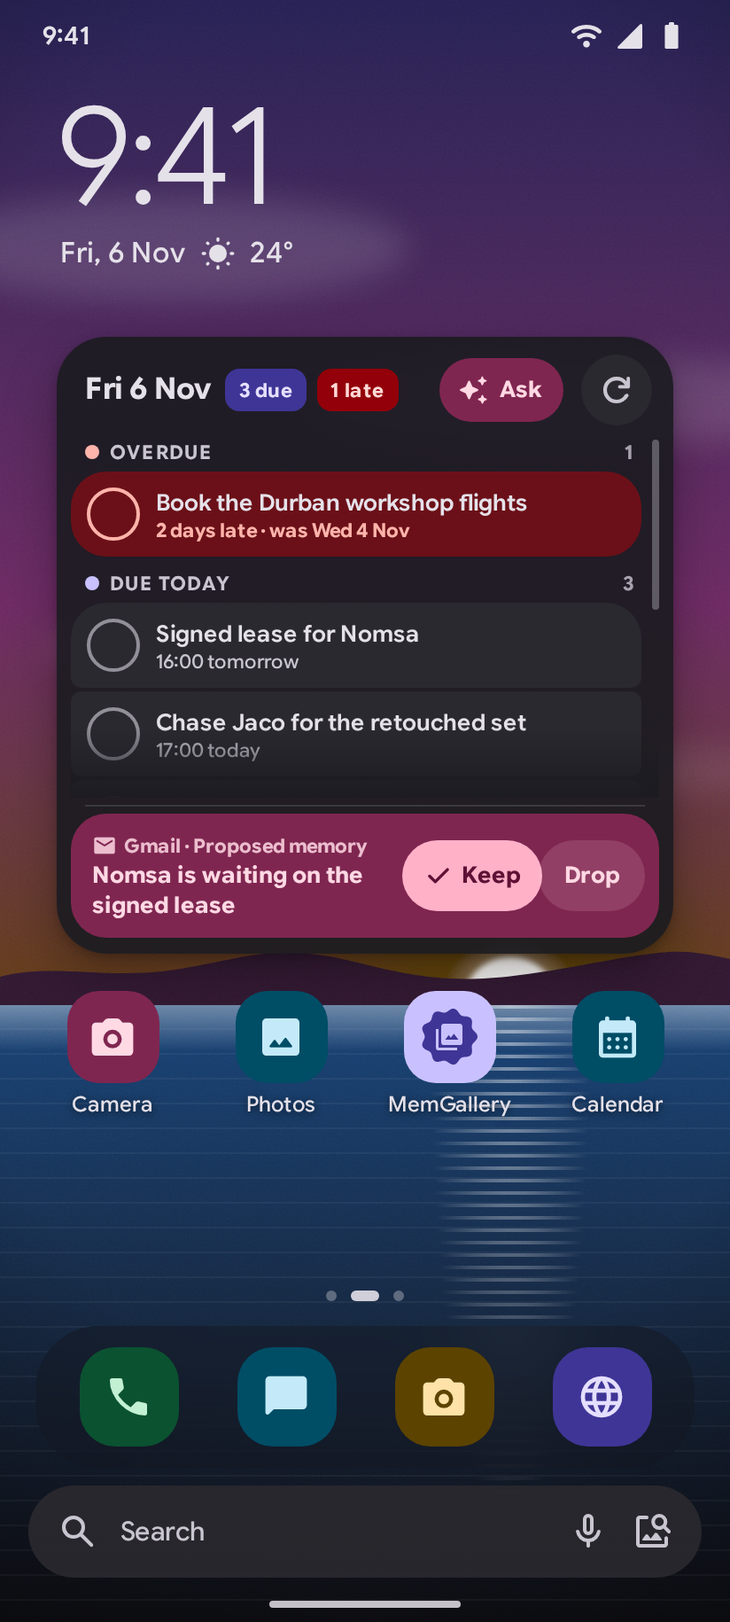
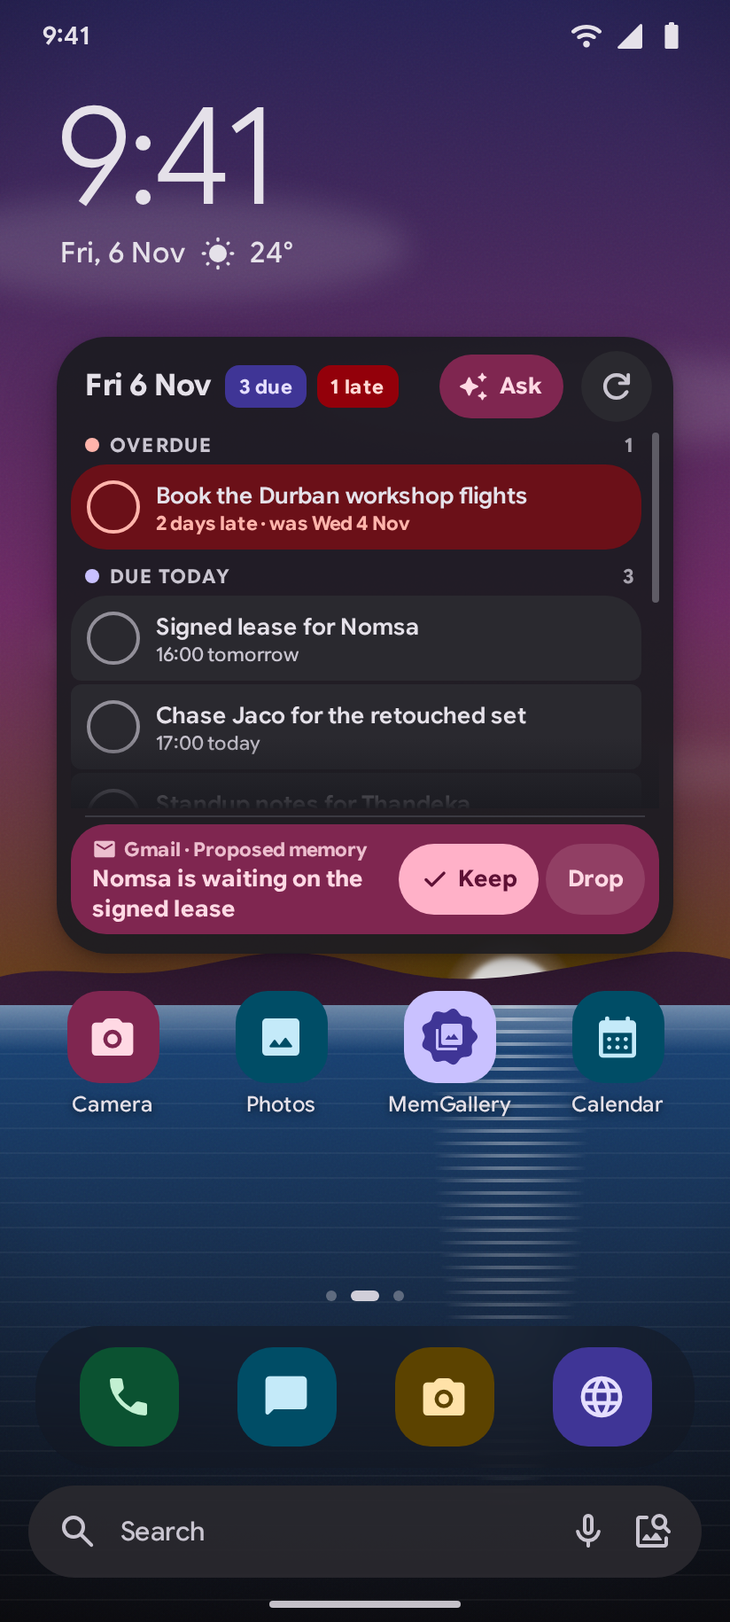
Widget mocks (11 to 14): v4

diff --git a/design/life-agent-mocks/14-widget-taps-dark.html b/design/life-agent-mocks/14-widget-taps-dark.html
@@ -2,6 +2,6 @@
 <script src="_kit/kit.js"></script>
 <div class="phone"><div class="bd-h"><b>Widget taps</b><span>Before and after</span></div><div class="pair" style="top:50px"><div class="ln"><div><span class="bdg">A</span><b>Tick done</b><em>Before</em></div><div class="gap"></div><div class="aft"><em style="margin-left:6px">After</em></div></div><div class="row"><div class="stage"><div class="wp mini"><div class="wp-sky"></div><div class="wp-cloud c1"></div><div class="wp-cloud c2"></div><div class="wp-cloud c3"></div><div class="wp-cloud c4"></div><div class="wp-sun"></div><svg class="wp-hills" viewBox="0 0 400 46" preserveAspectRatio="none"><path d="M0 46V30C30 22 58 32 96 26S150 10 196 22S262 34 316 24S372 14 400 20V46Z"/></svg><div class="wp-sea"></div><div class="wp-shine"></div><div class="wp-grain"></div><div class="wp-vig"></div></div><div class="w w-s" style="left:4px;top:6px"><div class="ws-top"><span class="ws-n">3</span><div class="ws-l"><b>due today</b><span class="tg quiet">1 late</span></div></div><div class="ask" style="right:4px;top:4px"><i><span class="i ">auto_awesome</span></i></div>
 <div class="ws-item "><div class="tk "></div><div class="tx"><b>Signed lease for Nomsa</b><small>16:00 tomorrow</small></div></div></div></div><div class="arw" style="margin:0"><span class="i b">arrow_forward</span></div><div class="stage"><div class="wp mini"><div class="wp-sky"></div><div class="wp-cloud c1"></div><div class="wp-cloud c2"></div><div class="wp-cloud c3"></div><div class="wp-cloud c4"></div><div class="wp-sun"></div><svg class="wp-hills" viewBox="0 0 400 46" preserveAspectRatio="none"><path d="M0 46V30C30 22 58 32 96 26S150 10 196 22S262 34 316 24S372 14 400 20V46Z"/></svg><div class="wp-sea"></div><div class="wp-shine"></div><div class="wp-grain"></div><div class="wp-vig"></div></div><div class="w w-s" style="left:4px;top:6px"><div class="ws-top"><span class="ws-n">2</span><div class="ws-l"><b>due today</b><span class="tg quiet">1 late</span></div></div><div class="ask" style="right:4px;top:4px"><i><span class="i ">auto_awesome</span></i></div>
-<div class="ws-item doneRow"><div class="tk done"><span class="i ">check</span></div><div class="tx"><b>Signed lease for Nomsa</b><small>Done · <u>Undo</u></small></div></div></div></div></div></div><div class="pair" style="top:266px"><div class="ln"><div><span class="bdg">B</span><b>Snooze</b><em>Before</em></div><div class="gap"></div><div class="aft"><em style="margin-left:6px">After</em></div></div><div class="row"><div class="stage"><div class="wp mini"><div class="wp-sky"></div><div class="wp-cloud c1"></div><div class="wp-cloud c2"></div><div class="wp-cloud c3"></div><div class="wp-cloud c4"></div><div class="wp-sun"></div><svg class="wp-hills" viewBox="0 0 400 46" preserveAspectRatio="none"><path d="M0 46V30C30 22 58 32 96 26S150 10 196 22S262 34 316 24S372 14 400 20V46Z"/></svg><div class="wp-sea"></div><div class="wp-shine"></div><div class="wp-grain"></div><div class="wp-vig"></div></div><div class="nt"><div class="ap"><i><span class="i ">photo_library</span></i>MemGallery · now</div><b>Signed lease for Nomsa</b><div class="ac"><span class="hit">Snooze</span><span>Done</span></div></div><div class="scr"></div><div class="sh"><div class="gr"></div><h6>Snooze until</h6><div class="opt"><div class="on"><span class="i ">schedule</span>1 hour</div><div>Tomorrow</div></div></div></div><div class="arw" style="margin:0"><span class="i b">arrow_forward</span></div><div class="stage"><div class="wp mini"><div class="wp-sky"></div><div class="wp-cloud c1"></div><div class="wp-cloud c2"></div><div class="wp-cloud c3"></div><div class="wp-cloud c4"></div><div class="wp-sun"></div><svg class="wp-hills" viewBox="0 0 400 46" preserveAspectRatio="none"><path d="M0 46V30C30 22 58 32 96 26S150 10 196 22S262 34 316 24S372 14 400 20V46Z"/></svg><div class="wp-sea"></div><div class="wp-shine"></div><div class="wp-grain"></div><div class="wp-vig"></div></div><div class="nt done"><div class="ap"><i><span class="i ">photo_library</span></i>MemGallery</div><b>Signed lease for Nomsa</b><span class="chipq"><span class="i ">notifications_paused</span>Snoozed until 10:41</span></div><div class="snack"><span class="i ">check_circle</span>Snoozed 1 hour<span class="u">Undo</span></div></div></div></div><div class="pair" style="top:482px"><div class="ln"><div><span class="bdg">C</span><b>Keep or drop</b><em>Before</em></div><div class="gap"></div><div class="aft"><em style="margin-left:6px">After</em></div></div><div class="row"><div class="stage"><div class="wp mini"><div class="wp-sky"></div><div class="wp-cloud c1"></div><div class="wp-cloud c2"></div><div class="wp-cloud c3"></div><div class="wp-cloud c4"></div><div class="wp-sun"></div><svg class="wp-hills" viewBox="0 0 400 46" preserveAspectRatio="none"><path d="M0 46V30C30 22 58 32 96 26S150 10 196 22S262 34 316 24S372 14 400 20V46Z"/></svg><div class="wp-sea"></div><div class="wp-shine"></div><div class="wp-grain"></div><div class="wp-vig"></div></div><div class="mem"><div class="meta"><span class="i ">mail</span>Gmail · 1 of 11</div><b>Nomsa is waiting on the signed lease</b><small>Due tomorrow 16:00</small><div class="acts"><div class="bt keep"><i><span class="i b">check</span>Keep</i></div><div class="bt drop"><i>Drop</i></div></div></div></div><div class="arw" style="margin:0"><span class="i b">arrow_forward</span></div><div class="stage"><div class="wp mini"><div class="wp-sky"></div><div class="wp-cloud c1"></div><div class="wp-cloud c2"></div><div class="wp-cloud c3"></div><div class="wp-cloud c4"></div><div class="wp-sun"></div><svg class="wp-hills" viewBox="0 0 400 46" preserveAspectRatio="none"><path d="M0 46V30C30 22 58 32 96 26S150 10 196 22S262 34 316 24S372 14 400 20V46Z"/></svg><div class="wp-sea"></div><div class="wp-shine"></div><div class="wp-grain"></div><div class="wp-vig"></div></div><div class="strip" style="top:2px"><div class="cf kept" style="left:8px"><span class="i ">check</span>Kept</div><div class="cap" style="left:12px">Keep tapped</div><div class="gc" style="right:8px"><i></i><i class="s"></i></div><div class="trail" style="right:96px"></div><div class="trail" style="right:104px;width:12px"></div></div><div class="strip" style="top:90px"><div class="gc" style="left:8px"><i></i><i class="s"></i></div><div class="trail" style="left:96px"></div><div class="trail" style="left:104px;width:12px"></div><div class="cf drp" style="right:8px"><span class="i ">close</span>Dropped</div><div class="cap" style="right:12px">Drop tapped</div></div></div></div></div><div class="pair" style="top:698px"><div class="ln"><div><span class="bdg">D</span><b>Ask</b><em>Before</em></div><div class="gap"></div><div class="aft"><em style="margin-left:6px">After</em></div></div><div class="row"><div class="stage"><div class="wp mini"><div class="wp-sky"></div><div class="wp-cloud c1"></div><div class="wp-cloud c2"></div><div class="wp-cloud c3"></div><div class="wp-cloud c4"></div><div class="wp-sun"></div><svg class="wp-hills" viewBox="0 0 400 46" preserveAspectRatio="none"><path d="M0 46V30C30 22 58 32 96 26S150 10 196 22S262 34 316 24S372 14 400 20V46Z"/></svg><div class="wp-sea"></div><div class="wp-shine"></div><div class="wp-grain"></div><div class="wp-vig"></div></div><div class="w w-s" style="left:4px;top:6px"><div class="ws-top"><span class="ws-n">3</span><div class="ws-l"><b>due today</b><span class="tg quiet">1 late</span></div></div><div class="ask" style="right:4px;top:4px"><i><span class="i ">auto_awesome</span></i></div>
-<div class="ws-item "><div class="tk "></div><div class="tx"><b>Signed lease for Nomsa</b><small>16:00 tomorrow</small></div></div></div></div><div class="arw" style="margin:0"><span class="i b">arrow_forward</span></div><div class="stage"><div class="wp mini"><div class="wp-sky"></div><div class="wp-cloud c1"></div><div class="wp-cloud c2"></div><div class="wp-cloud c3"></div><div class="wp-cloud c4"></div><div class="wp-sun"></div><svg class="wp-hills" viewBox="0 0 400 46" preserveAspectRatio="none"><path d="M0 46V30C30 22 58 32 96 26S150 10 196 22S262 34 316 24S372 14 400 20V46Z"/></svg><div class="wp-sea"></div><div class="wp-shine"></div><div class="wp-grain"></div><div class="wp-vig"></div></div><div class="chat"><div class="tb"><span class="i ">arrow_back</span>Ask</div><div class="ctx"><div class="meta"><span class="i ">task_alt</span>About this task</div><b>Send the signed lease to Nomsa Mahlangu</b></div><div class="sug"><span class="i ">auto_awesome</span>Draft the reply</div><div class="cmp">Ask about this task<i><span class="i b">arrow_upward</span></i></div></div></div></div></div></div>
+<div class="ws-item doneRow"><div class="tk done"><span class="i ">check</span></div><div class="tx"><b>Signed lease for Nomsa</b><small>Done · <u>Undo</u></small></div></div></div></div></div></div><div class="pair" style="top:266px"><div class="ln"><div><span class="bdg">B</span><b>Snooze</b><em>Before</em></div><div class="gap"></div><div class="aft"><em style="margin-left:6px">After</em></div></div><div class="row"><div class="stage"><div class="wp mini"><div class="wp-sky"></div><div class="wp-cloud c1"></div><div class="wp-cloud c2"></div><div class="wp-cloud c3"></div><div class="wp-cloud c4"></div><div class="wp-sun"></div><svg class="wp-hills" viewBox="0 0 400 46" preserveAspectRatio="none"><path d="M0 46V30C30 22 58 32 96 26S150 10 196 22S262 34 316 24S372 14 400 20V46Z"/></svg><div class="wp-sea"></div><div class="wp-shine"></div><div class="wp-grain"></div><div class="wp-vig"></div></div><div class="nt"><div class="ap"><i><span class="i ">photo_library</span></i>MemGallery · now</div><b>Signed lease for Nomsa</b><div class="ac"><span class="hit">Snooze</span><span>Done</span></div></div><div class="scr"></div><div class="sh"><div class="gr"></div><h6>Snooze until</h6><div class="opt"><div class="on"><span class="i ">schedule</span>1 hour</div><div>Tomorrow</div></div></div></div><div class="arw" style="margin:0"><span class="i b">arrow_forward</span></div><div class="stage"><div class="wp mini"><div class="wp-sky"></div><div class="wp-cloud c1"></div><div class="wp-cloud c2"></div><div class="wp-cloud c3"></div><div class="wp-cloud c4"></div><div class="wp-sun"></div><svg class="wp-hills" viewBox="0 0 400 46" preserveAspectRatio="none"><path d="M0 46V30C30 22 58 32 96 26S150 10 196 22S262 34 316 24S372 14 400 20V46Z"/></svg><div class="wp-sea"></div><div class="wp-shine"></div><div class="wp-grain"></div><div class="wp-vig"></div></div><div class="nt done"><div class="ap"><i><span class="i ">photo_library</span></i>MemGallery</div><b>Signed lease for Nomsa</b><span class="chipq"><span class="i ">notifications_paused</span>Snoozed until 10:41</span></div><div class="snack"><span class="i ">check_circle</span>Snoozed<span class="u">Undo</span></div></div></div></div><div class="pair" style="top:482px"><div class="ln"><div><span class="bdg">C</span><b>Keep or drop</b><em>Before</em></div><div class="gap"></div><div class="aft"><em style="margin-left:6px">After</em></div></div><div class="row"><div class="stage"><div class="wp mini"><div class="wp-sky"></div><div class="wp-cloud c1"></div><div class="wp-cloud c2"></div><div class="wp-cloud c3"></div><div class="wp-cloud c4"></div><div class="wp-sun"></div><svg class="wp-hills" viewBox="0 0 400 46" preserveAspectRatio="none"><path d="M0 46V30C30 22 58 32 96 26S150 10 196 22S262 34 316 24S372 14 400 20V46Z"/></svg><div class="wp-sea"></div><div class="wp-shine"></div><div class="wp-grain"></div><div class="wp-vig"></div></div><div class="mem"><div class="meta"><span class="i ">mail</span>Gmail · 1 of 11</div><b>Nomsa is waiting on the signed lease</b><small>Due tomorrow 16:00</small><div class="acts"><div class="bt keep"><i><span class="i b">check</span>Keep</i></div><div class="bt drop"><i>Drop</i></div></div></div></div><div class="arw" style="margin:0"><span class="i b">arrow_forward</span></div><div class="stage"><div class="wp mini"><div class="wp-sky"></div><div class="wp-cloud c1"></div><div class="wp-cloud c2"></div><div class="wp-cloud c3"></div><div class="wp-cloud c4"></div><div class="wp-sun"></div><svg class="wp-hills" viewBox="0 0 400 46" preserveAspectRatio="none"><path d="M0 46V30C30 22 58 32 96 26S150 10 196 22S262 34 316 24S372 14 400 20V46Z"/></svg><div class="wp-sea"></div><div class="wp-shine"></div><div class="wp-grain"></div><div class="wp-vig"></div></div><div class="strip" style="top:2px"><div class="cf kept" style="left:8px"><span class="i ">check</span>Kept</div><div class="cap" style="left:12px">Keep tapped</div><div class="gc" style="right:8px"><i></i><i class="s"></i></div><div class="trail" style="right:96px"></div><div class="trail" style="right:104px;width:12px"></div></div><div class="strip" style="top:90px"><div class="gc" style="left:8px"><i></i><i class="s"></i></div><div class="trail" style="left:96px"></div><div class="trail" style="left:104px;width:12px"></div><div class="cf drp" style="right:8px"><span class="i ">close</span>Dropped</div><div class="cap" style="right:12px">Drop tapped</div></div></div></div></div><div class="pair" style="top:698px"><div class="ln"><div><span class="bdg">D</span><b>Ask</b><em>Before</em></div><div class="gap"></div><div class="aft"><em style="margin-left:6px">After</em></div></div><div class="row"><div class="stage"><div class="wp mini"><div class="wp-sky"></div><div class="wp-cloud c1"></div><div class="wp-cloud c2"></div><div class="wp-cloud c3"></div><div class="wp-cloud c4"></div><div class="wp-sun"></div><svg class="wp-hills" viewBox="0 0 400 46" preserveAspectRatio="none"><path d="M0 46V30C30 22 58 32 96 26S150 10 196 22S262 34 316 24S372 14 400 20V46Z"/></svg><div class="wp-sea"></div><div class="wp-shine"></div><div class="wp-grain"></div><div class="wp-vig"></div></div><div class="w w-s" style="left:4px;top:6px"><div class="ws-top"><span class="ws-n">3</span><div class="ws-l"><b>due today</b><span class="tg quiet">1 late</span></div></div><div class="ask" style="right:4px;top:4px"><i><span class="i ">auto_awesome</span></i></div>
+<div class="ws-item "><div class="tk "></div><div class="tx"><b>Signed lease for Nomsa</b><small>16:00 tomorrow</small></div></div></div></div><div class="arw" style="margin:0"><span class="i b">arrow_forward</span></div><div class="stage"><div class="wp mini"><div class="wp-sky"></div><div class="wp-cloud c1"></div><div class="wp-cloud c2"></div><div class="wp-cloud c3"></div><div class="wp-cloud c4"></div><div class="wp-sun"></div><svg class="wp-hills" viewBox="0 0 400 46" preserveAspectRatio="none"><path d="M0 46V30C30 22 58 32 96 26S150 10 196 22S262 34 316 24S372 14 400 20V46Z"/></svg><div class="wp-sea"></div><div class="wp-shine"></div><div class="wp-grain"></div><div class="wp-vig"></div></div><div class="chat"><div class="tb"><span class="i ">arrow_back</span>Ask</div><div class="ctx"><div class="meta"><span class="i ">task_alt</span>About this task</div><b>Send the signed lease to Nomsa Mahlangu</b></div><div class="sug"><span class="i ">auto_awesome</span>Draft the reply</div><div class="cmp">Ask a follow-up<i><span class="i b">arrow_upward</span></i></div></div></div></div></div></div>
 <script>document.documentElement.classList.toggle('dark', document.documentElement.hasAttribute('data-dark')); installShapes();</script></body></html>

diff --git a/design/life-agent-mocks/14-widget-taps-light.html b/design/life-agent-mocks/14-widget-taps-light.html
@@ -2,6 +2,6 @@
 <script src="_kit/kit.js"></script>
 <div class="phone"><div class="bd-h"><b>Widget taps</b><span>Before and after</span></div><div class="pair" style="top:50px"><div class="ln"><div><span class="bdg">A</span><b>Tick done</b><em>Before</em></div><div class="gap"></div><div class="aft"><em style="margin-left:6px">After</em></div></div><div class="row"><div class="stage"><div class="wp mini"><div class="wp-sky"></div><div class="wp-cloud c1"></div><div class="wp-cloud c2"></div><div class="wp-cloud c3"></div><div class="wp-cloud c4"></div><div class="wp-sun"></div><svg class="wp-hills" viewBox="0 0 400 46" preserveAspectRatio="none"><path d="M0 46V30C30 22 58 32 96 26S150 10 196 22S262 34 316 24S372 14 400 20V46Z"/></svg><div class="wp-sea"></div><div class="wp-shine"></div><div class="wp-grain"></div><div class="wp-vig"></div></div><div class="w w-s" style="left:4px;top:6px"><div class="ws-top"><span class="ws-n">3</span><div class="ws-l"><b>due today</b><span class="tg quiet">1 late</span></div></div><div class="ask" style="right:4px;top:4px"><i><span class="i ">auto_awesome</span></i></div>
 <div class="ws-item "><div class="tk "></div><div class="tx"><b>Signed lease for Nomsa</b><small>16:00 tomorrow</small></div></div></div></div><div class="arw" style="margin:0"><span class="i b">arrow_forward</span></div><div class="stage"><div class="wp mini"><div class="wp-sky"></div><div class="wp-cloud c1"></div><div class="wp-cloud c2"></div><div class="wp-cloud c3"></div><div class="wp-cloud c4"></div><div class="wp-sun"></div><svg class="wp-hills" viewBox="0 0 400 46" preserveAspectRatio="none"><path d="M0 46V30C30 22 58 32 96 26S150 10 196 22S262 34 316 24S372 14 400 20V46Z"/></svg><div class="wp-sea"></div><div class="wp-shine"></div><div class="wp-grain"></div><div class="wp-vig"></div></div><div class="w w-s" style="left:4px;top:6px"><div class="ws-top"><span class="ws-n">2</span><div class="ws-l"><b>due today</b><span class="tg quiet">1 late</span></div></div><div class="ask" style="right:4px;top:4px"><i><span class="i ">auto_awesome</span></i></div>
-<div class="ws-item doneRow"><div class="tk done"><span class="i ">check</span></div><div class="tx"><b>Signed lease for Nomsa</b><small>Done · <u>Undo</u></small></div></div></div></div></div></div><div class="pair" style="top:266px"><div class="ln"><div><span class="bdg">B</span><b>Snooze</b><em>Before</em></div><div class="gap"></div><div class="aft"><em style="margin-left:6px">After</em></div></div><div class="row"><div class="stage"><div class="wp mini"><div class="wp-sky"></div><div class="wp-cloud c1"></div><div class="wp-cloud c2"></div><div class="wp-cloud c3"></div><div class="wp-cloud c4"></div><div class="wp-sun"></div><svg class="wp-hills" viewBox="0 0 400 46" preserveAspectRatio="none"><path d="M0 46V30C30 22 58 32 96 26S150 10 196 22S262 34 316 24S372 14 400 20V46Z"/></svg><div class="wp-sea"></div><div class="wp-shine"></div><div class="wp-grain"></div><div class="wp-vig"></div></div><div class="nt"><div class="ap"><i><span class="i ">photo_library</span></i>MemGallery · now</div><b>Signed lease for Nomsa</b><div class="ac"><span class="hit">Snooze</span><span>Done</span></div></div><div class="scr"></div><div class="sh"><div class="gr"></div><h6>Snooze until</h6><div class="opt"><div class="on"><span class="i ">schedule</span>1 hour</div><div>Tomorrow</div></div></div></div><div class="arw" style="margin:0"><span class="i b">arrow_forward</span></div><div class="stage"><div class="wp mini"><div class="wp-sky"></div><div class="wp-cloud c1"></div><div class="wp-cloud c2"></div><div class="wp-cloud c3"></div><div class="wp-cloud c4"></div><div class="wp-sun"></div><svg class="wp-hills" viewBox="0 0 400 46" preserveAspectRatio="none"><path d="M0 46V30C30 22 58 32 96 26S150 10 196 22S262 34 316 24S372 14 400 20V46Z"/></svg><div class="wp-sea"></div><div class="wp-shine"></div><div class="wp-grain"></div><div class="wp-vig"></div></div><div class="nt done"><div class="ap"><i><span class="i ">photo_library</span></i>MemGallery</div><b>Signed lease for Nomsa</b><span class="chipq"><span class="i ">notifications_paused</span>Snoozed until 10:41</span></div><div class="snack"><span class="i ">check_circle</span>Snoozed 1 hour<span class="u">Undo</span></div></div></div></div><div class="pair" style="top:482px"><div class="ln"><div><span class="bdg">C</span><b>Keep or drop</b><em>Before</em></div><div class="gap"></div><div class="aft"><em style="margin-left:6px">After</em></div></div><div class="row"><div class="stage"><div class="wp mini"><div class="wp-sky"></div><div class="wp-cloud c1"></div><div class="wp-cloud c2"></div><div class="wp-cloud c3"></div><div class="wp-cloud c4"></div><div class="wp-sun"></div><svg class="wp-hills" viewBox="0 0 400 46" preserveAspectRatio="none"><path d="M0 46V30C30 22 58 32 96 26S150 10 196 22S262 34 316 24S372 14 400 20V46Z"/></svg><div class="wp-sea"></div><div class="wp-shine"></div><div class="wp-grain"></div><div class="wp-vig"></div></div><div class="mem"><div class="meta"><span class="i ">mail</span>Gmail · 1 of 11</div><b>Nomsa is waiting on the signed lease</b><small>Due tomorrow 16:00</small><div class="acts"><div class="bt keep"><i><span class="i b">check</span>Keep</i></div><div class="bt drop"><i>Drop</i></div></div></div></div><div class="arw" style="margin:0"><span class="i b">arrow_forward</span></div><div class="stage"><div class="wp mini"><div class="wp-sky"></div><div class="wp-cloud c1"></div><div class="wp-cloud c2"></div><div class="wp-cloud c3"></div><div class="wp-cloud c4"></div><div class="wp-sun"></div><svg class="wp-hills" viewBox="0 0 400 46" preserveAspectRatio="none"><path d="M0 46V30C30 22 58 32 96 26S150 10 196 22S262 34 316 24S372 14 400 20V46Z"/></svg><div class="wp-sea"></div><div class="wp-shine"></div><div class="wp-grain"></div><div class="wp-vig"></div></div><div class="strip" style="top:2px"><div class="cf kept" style="left:8px"><span class="i ">check</span>Kept</div><div class="cap" style="left:12px">Keep tapped</div><div class="gc" style="right:8px"><i></i><i class="s"></i></div><div class="trail" style="right:96px"></div><div class="trail" style="right:104px;width:12px"></div></div><div class="strip" style="top:90px"><div class="gc" style="left:8px"><i></i><i class="s"></i></div><div class="trail" style="left:96px"></div><div class="trail" style="left:104px;width:12px"></div><div class="cf drp" style="right:8px"><span class="i ">close</span>Dropped</div><div class="cap" style="right:12px">Drop tapped</div></div></div></div></div><div class="pair" style="top:698px"><div class="ln"><div><span class="bdg">D</span><b>Ask</b><em>Before</em></div><div class="gap"></div><div class="aft"><em style="margin-left:6px">After</em></div></div><div class="row"><div class="stage"><div class="wp mini"><div class="wp-sky"></div><div class="wp-cloud c1"></div><div class="wp-cloud c2"></div><div class="wp-cloud c3"></div><div class="wp-cloud c4"></div><div class="wp-sun"></div><svg class="wp-hills" viewBox="0 0 400 46" preserveAspectRatio="none"><path d="M0 46V30C30 22 58 32 96 26S150 10 196 22S262 34 316 24S372 14 400 20V46Z"/></svg><div class="wp-sea"></div><div class="wp-shine"></div><div class="wp-grain"></div><div class="wp-vig"></div></div><div class="w w-s" style="left:4px;top:6px"><div class="ws-top"><span class="ws-n">3</span><div class="ws-l"><b>due today</b><span class="tg quiet">1 late</span></div></div><div class="ask" style="right:4px;top:4px"><i><span class="i ">auto_awesome</span></i></div>
-<div class="ws-item "><div class="tk "></div><div class="tx"><b>Signed lease for Nomsa</b><small>16:00 tomorrow</small></div></div></div></div><div class="arw" style="margin:0"><span class="i b">arrow_forward</span></div><div class="stage"><div class="wp mini"><div class="wp-sky"></div><div class="wp-cloud c1"></div><div class="wp-cloud c2"></div><div class="wp-cloud c3"></div><div class="wp-cloud c4"></div><div class="wp-sun"></div><svg class="wp-hills" viewBox="0 0 400 46" preserveAspectRatio="none"><path d="M0 46V30C30 22 58 32 96 26S150 10 196 22S262 34 316 24S372 14 400 20V46Z"/></svg><div class="wp-sea"></div><div class="wp-shine"></div><div class="wp-grain"></div><div class="wp-vig"></div></div><div class="chat"><div class="tb"><span class="i ">arrow_back</span>Ask</div><div class="ctx"><div class="meta"><span class="i ">task_alt</span>About this task</div><b>Send the signed lease to Nomsa Mahlangu</b></div><div class="sug"><span class="i ">auto_awesome</span>Draft the reply</div><div class="cmp">Ask about this task<i><span class="i b">arrow_upward</span></i></div></div></div></div></div></div>
+<div class="ws-item doneRow"><div class="tk done"><span class="i ">check</span></div><div class="tx"><b>Signed lease for Nomsa</b><small>Done · <u>Undo</u></small></div></div></div></div></div></div><div class="pair" style="top:266px"><div class="ln"><div><span class="bdg">B</span><b>Snooze</b><em>Before</em></div><div class="gap"></div><div class="aft"><em style="margin-left:6px">After</em></div></div><div class="row"><div class="stage"><div class="wp mini"><div class="wp-sky"></div><div class="wp-cloud c1"></div><div class="wp-cloud c2"></div><div class="wp-cloud c3"></div><div class="wp-cloud c4"></div><div class="wp-sun"></div><svg class="wp-hills" viewBox="0 0 400 46" preserveAspectRatio="none"><path d="M0 46V30C30 22 58 32 96 26S150 10 196 22S262 34 316 24S372 14 400 20V46Z"/></svg><div class="wp-sea"></div><div class="wp-shine"></div><div class="wp-grain"></div><div class="wp-vig"></div></div><div class="nt"><div class="ap"><i><span class="i ">photo_library</span></i>MemGallery · now</div><b>Signed lease for Nomsa</b><div class="ac"><span class="hit">Snooze</span><span>Done</span></div></div><div class="scr"></div><div class="sh"><div class="gr"></div><h6>Snooze until</h6><div class="opt"><div class="on"><span class="i ">schedule</span>1 hour</div><div>Tomorrow</div></div></div></div><div class="arw" style="margin:0"><span class="i b">arrow_forward</span></div><div class="stage"><div class="wp mini"><div class="wp-sky"></div><div class="wp-cloud c1"></div><div class="wp-cloud c2"></div><div class="wp-cloud c3"></div><div class="wp-cloud c4"></div><div class="wp-sun"></div><svg class="wp-hills" viewBox="0 0 400 46" preserveAspectRatio="none"><path d="M0 46V30C30 22 58 32 96 26S150 10 196 22S262 34 316 24S372 14 400 20V46Z"/></svg><div class="wp-sea"></div><div class="wp-shine"></div><div class="wp-grain"></div><div class="wp-vig"></div></div><div class="nt done"><div class="ap"><i><span class="i ">photo_library</span></i>MemGallery</div><b>Signed lease for Nomsa</b><span class="chipq"><span class="i ">notifications_paused</span>Snoozed until 10:41</span></div><div class="snack"><span class="i ">check_circle</span>Snoozed<span class="u">Undo</span></div></div></div></div><div class="pair" style="top:482px"><div class="ln"><div><span class="bdg">C</span><b>Keep or drop</b><em>Before</em></div><div class="gap"></div><div class="aft"><em style="margin-left:6px">After</em></div></div><div class="row"><div class="stage"><div class="wp mini"><div class="wp-sky"></div><div class="wp-cloud c1"></div><div class="wp-cloud c2"></div><div class="wp-cloud c3"></div><div class="wp-cloud c4"></div><div class="wp-sun"></div><svg class="wp-hills" viewBox="0 0 400 46" preserveAspectRatio="none"><path d="M0 46V30C30 22 58 32 96 26S150 10 196 22S262 34 316 24S372 14 400 20V46Z"/></svg><div class="wp-sea"></div><div class="wp-shine"></div><div class="wp-grain"></div><div class="wp-vig"></div></div><div class="mem"><div class="meta"><span class="i ">mail</span>Gmail · 1 of 11</div><b>Nomsa is waiting on the signed lease</b><small>Due tomorrow 16:00</small><div class="acts"><div class="bt keep"><i><span class="i b">check</span>Keep</i></div><div class="bt drop"><i>Drop</i></div></div></div></div><div class="arw" style="margin:0"><span class="i b">arrow_forward</span></div><div class="stage"><div class="wp mini"><div class="wp-sky"></div><div class="wp-cloud c1"></div><div class="wp-cloud c2"></div><div class="wp-cloud c3"></div><div class="wp-cloud c4"></div><div class="wp-sun"></div><svg class="wp-hills" viewBox="0 0 400 46" preserveAspectRatio="none"><path d="M0 46V30C30 22 58 32 96 26S150 10 196 22S262 34 316 24S372 14 400 20V46Z"/></svg><div class="wp-sea"></div><div class="wp-shine"></div><div class="wp-grain"></div><div class="wp-vig"></div></div><div class="strip" style="top:2px"><div class="cf kept" style="left:8px"><span class="i ">check</span>Kept</div><div class="cap" style="left:12px">Keep tapped</div><div class="gc" style="right:8px"><i></i><i class="s"></i></div><div class="trail" style="right:96px"></div><div class="trail" style="right:104px;width:12px"></div></div><div class="strip" style="top:90px"><div class="gc" style="left:8px"><i></i><i class="s"></i></div><div class="trail" style="left:96px"></div><div class="trail" style="left:104px;width:12px"></div><div class="cf drp" style="right:8px"><span class="i ">close</span>Dropped</div><div class="cap" style="right:12px">Drop tapped</div></div></div></div></div><div class="pair" style="top:698px"><div class="ln"><div><span class="bdg">D</span><b>Ask</b><em>Before</em></div><div class="gap"></div><div class="aft"><em style="margin-left:6px">After</em></div></div><div class="row"><div class="stage"><div class="wp mini"><div class="wp-sky"></div><div class="wp-cloud c1"></div><div class="wp-cloud c2"></div><div class="wp-cloud c3"></div><div class="wp-cloud c4"></div><div class="wp-sun"></div><svg class="wp-hills" viewBox="0 0 400 46" preserveAspectRatio="none"><path d="M0 46V30C30 22 58 32 96 26S150 10 196 22S262 34 316 24S372 14 400 20V46Z"/></svg><div class="wp-sea"></div><div class="wp-shine"></div><div class="wp-grain"></div><div class="wp-vig"></div></div><div class="w w-s" style="left:4px;top:6px"><div class="ws-top"><span class="ws-n">3</span><div class="ws-l"><b>due today</b><span class="tg quiet">1 late</span></div></div><div class="ask" style="right:4px;top:4px"><i><span class="i ">auto_awesome</span></i></div>
+<div class="ws-item "><div class="tk "></div><div class="tx"><b>Signed lease for Nomsa</b><small>16:00 tomorrow</small></div></div></div></div><div class="arw" style="margin:0"><span class="i b">arrow_forward</span></div><div class="stage"><div class="wp mini"><div class="wp-sky"></div><div class="wp-cloud c1"></div><div class="wp-cloud c2"></div><div class="wp-cloud c3"></div><div class="wp-cloud c4"></div><div class="wp-sun"></div><svg class="wp-hills" viewBox="0 0 400 46" preserveAspectRatio="none"><path d="M0 46V30C30 22 58 32 96 26S150 10 196 22S262 34 316 24S372 14 400 20V46Z"/></svg><div class="wp-sea"></div><div class="wp-shine"></div><div class="wp-grain"></div><div class="wp-vig"></div></div><div class="chat"><div class="tb"><span class="i ">arrow_back</span>Ask</div><div class="ctx"><div class="meta"><span class="i ">task_alt</span>About this task</div><b>Send the signed lease to Nomsa Mahlangu</b></div><div class="sug"><span class="i ">auto_awesome</span>Draft the reply</div><div class="cmp">Ask a follow-up<i><span class="i b">arrow_upward</span></i></div></div></div></div></div></div>
 <script>document.documentElement.classList.toggle('dark', document.documentElement.hasAttribute('data-dark')); installShapes();</script></body></html>

diff --git a/design/life-agent-mocks/screens-c.css b/design/life-agent-mocks/screens-c.css
@@ -268,3 +268,14 @@ html.dark .strip .cap { text-shadow: 0 1px 4px rgb(0 0 0 / .6); }
 .wl-scroll .in { padding-right: 10px; }
 .wl-div { height: 1px; margin: 4px 8px 0; background: var(--outline-variant); flex: none; opacity: .7; }
 .wl-card { margin-top: 4px; }
+/* v4 */
+.wl-h { height: 44px; }
+.wl-scroll { height: 214px; }
+.wl-card { height: 62px; }
+.wl-card .acts .bt.keep { width: 80px; }
+.wl-card .acts .bt.drop { width: 64px; }
+.wl-card .acts .bt.drop > i { min-width: 56px; }
+.strip .gc { width: 44px; padding: 9px 8px; }
+.cf { padding: 0 12px 0 8px; font-size: 14px; }
+.strip .trail { width: 14px; }
+.snack { gap: 6px; }
